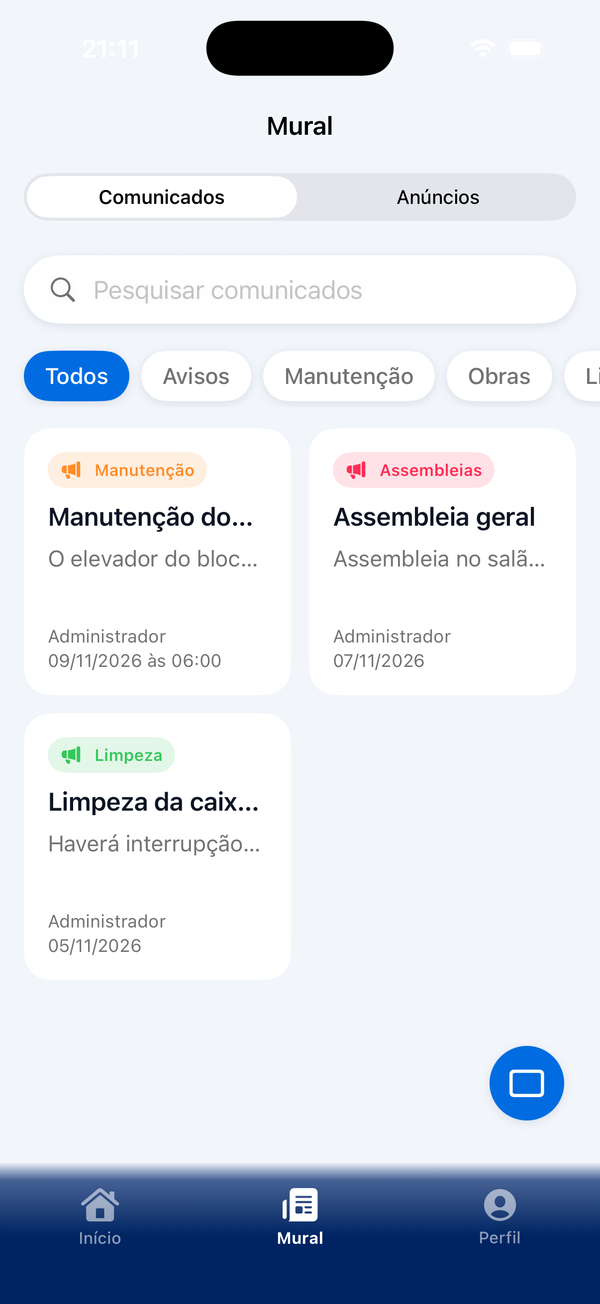
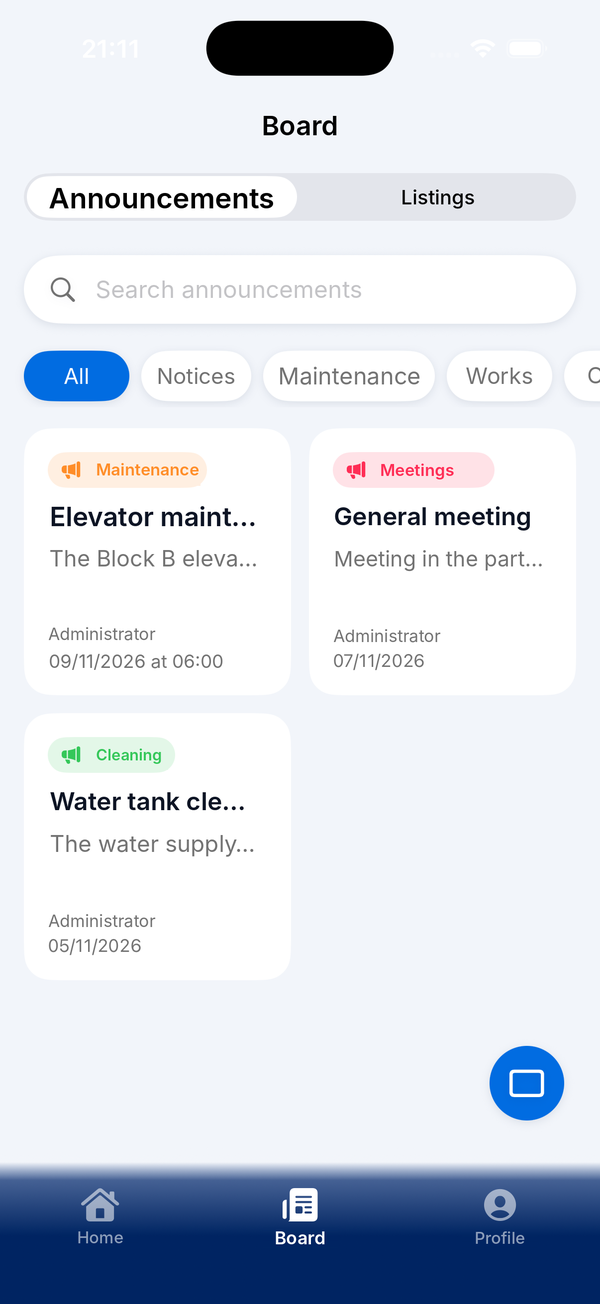
Use English screenshots and a generic clone URL

diff --git a/README.md b/README.md
@@ -103,7 +103,7 @@ Every route follows the same pattern: **HTTP IN → identify user → authorize 
 ## Quick start
 
 ```bash
-git clone https://github.com/pietrocdrachler/pocketsindico.git
+git clone <repository-url> pocketsindico
 cd pocketsindico/backend
 cp .env.example .env
 docker compose up -d
